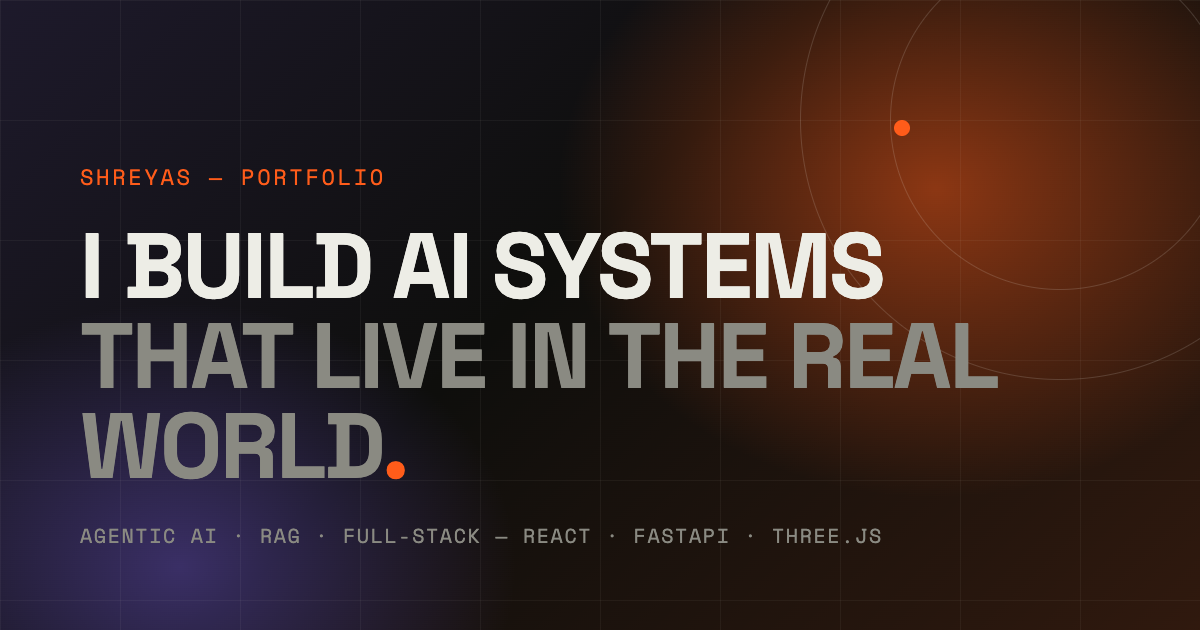
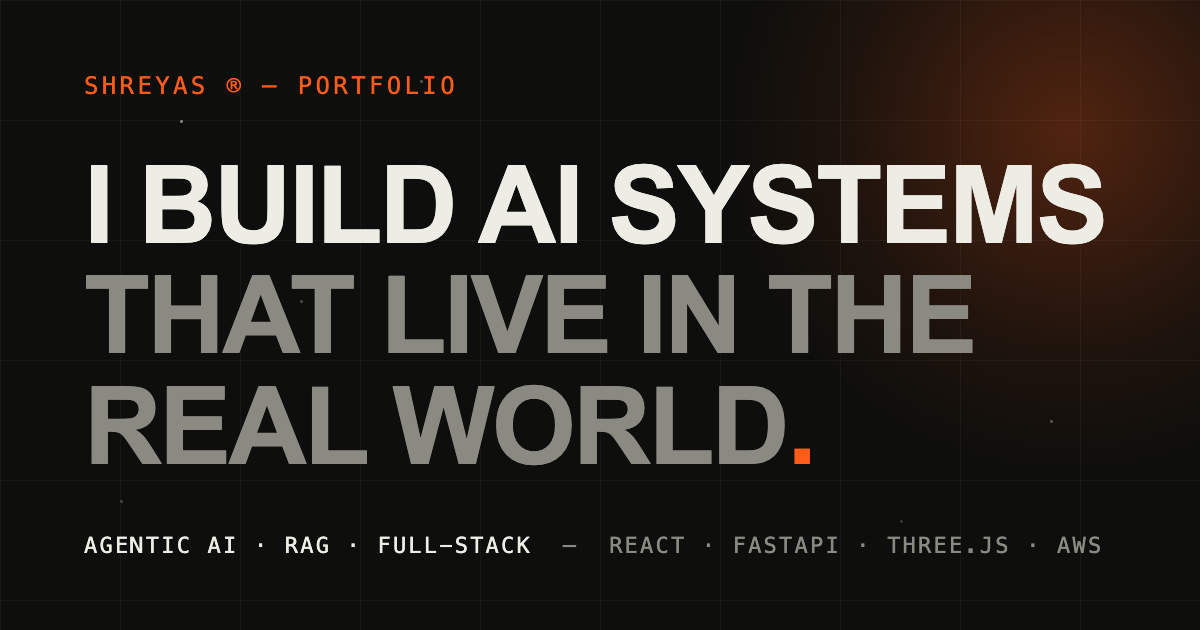
Uniform starfield distribution; cleaner typographic OG share card

diff --git a/src/gl/Hero.js b/src/gl/Hero.js
@@ -72,10 +72,10 @@ export class Hero {
     const count = quality === 'high' ? 380 : 200;
     const positions = new Float32Array(count * 3);
     for (let i = 0; i < count; i++) {
-      const radius = 2.5 + Math.random() * 6;
-      const theta = Math.random() * Math.PI * 2;
-      positions[i * 3] = Math.cos(theta) * radius;
-      positions[i * 3 + 1] = (Math.random() - 0.5) * 6;
+      // Uniform box wider than the widest frustum slice, so stars reach
+      // every corner of the viewport (the rock occludes its own area).
+      positions[i * 3] = (Math.random() - 0.5) * 17;
+      positions[i * 3 + 1] = (Math.random() - 0.5) * 9;
       positions[i * 3 + 2] = -1 - Math.random() * 5;
     }
     const particleGeometry = new THREE.BufferGeometry();